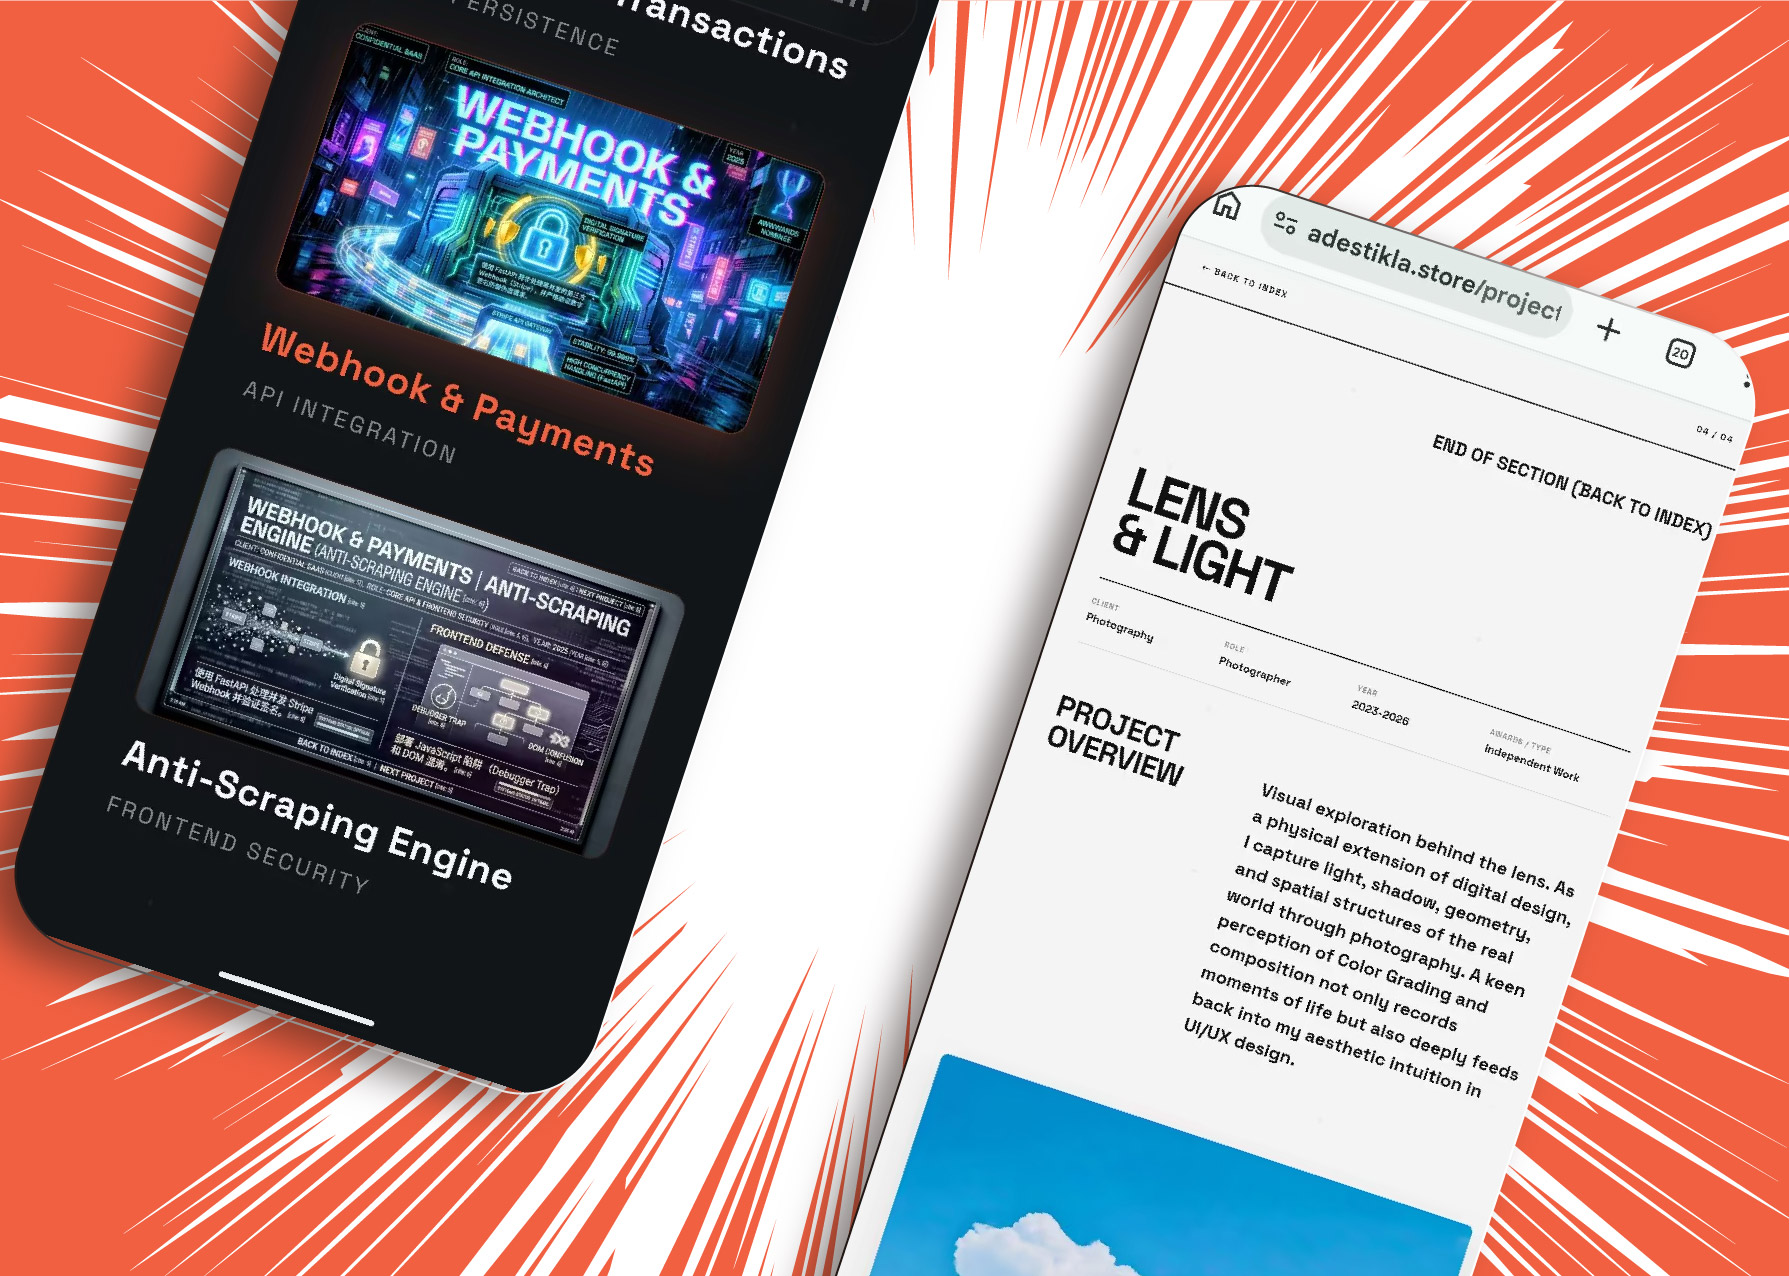
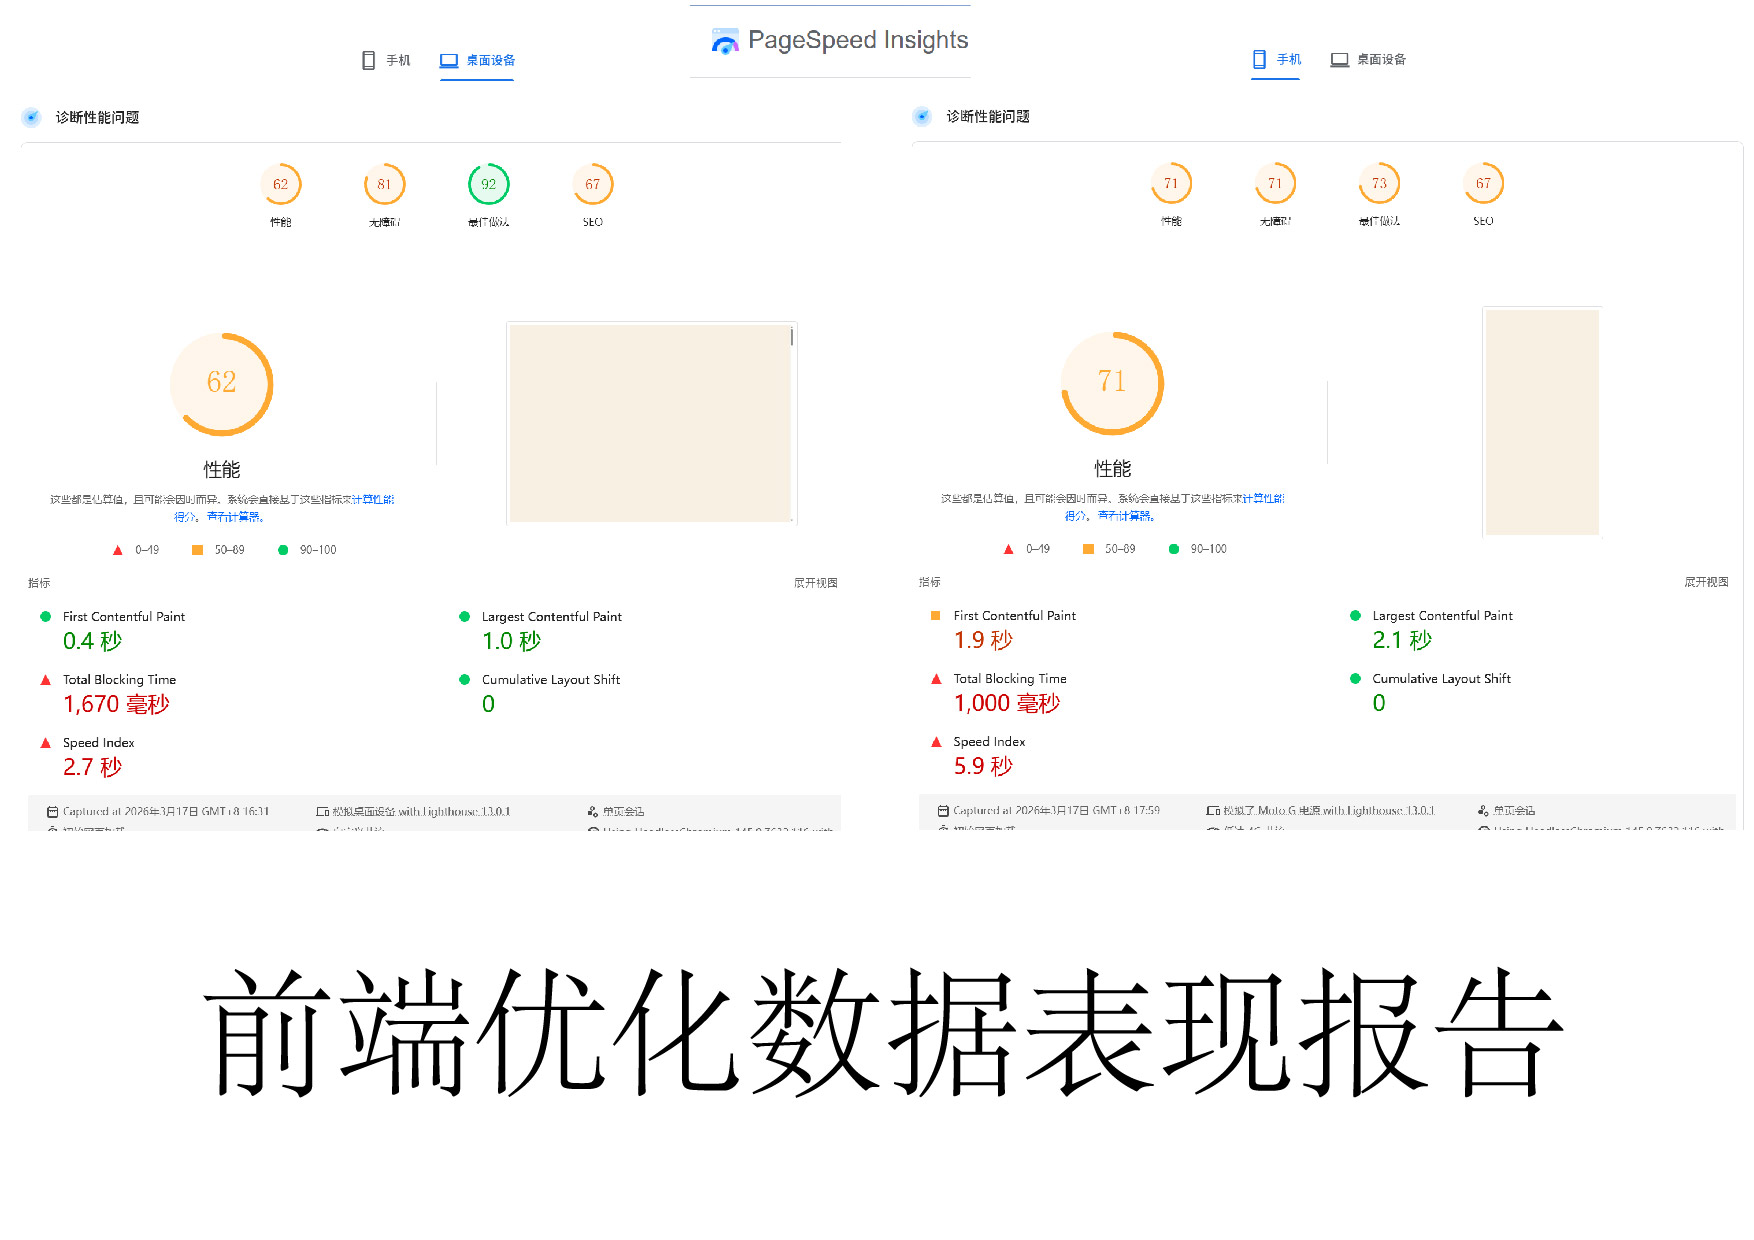
1.4修复详情页

diff --git a/frontend/templates/detail.html b/frontend/templates/detail.html
@@ -2,13 +2,16 @@
 <html lang="zh-CN">
 <head>
     <meta charset="UTF-8">
-    </head>
+    <meta name="viewport" content="width=device-width, initial-scale=1.0">
+    <title>{{ t.title_detail }}</title>
+    <link rel="stylesheet" href="/static/style.css">
+</head>
 <body class="pdf-theme">
+
     <div id="image-lightbox" class="image-lightbox">
         <div class="rotate-tip">{{ t.rotate_tip }}</div>
         <img id="lightbox-img" src="" alt="Full Scale View">
     </div>
-
     <nav class="pdf-nav">
     <script>
         if (window.top !== window.self) {
@@ -156,8 +159,6 @@
             });
         });
     </script>
-    </head>
-<body class="pdf-theme">
     <nav class="pdf-nav">
         <a href="/?lang={{ lang }}" class="back-btn">{{ t.btn_back }}</a>
         <span>0{{ current_index }} / 04</span>
@@ -243,6 +244,6 @@
             {% endif %}
         </footer>
     </div>
-
+    </nav>
 </body>
 </html>
